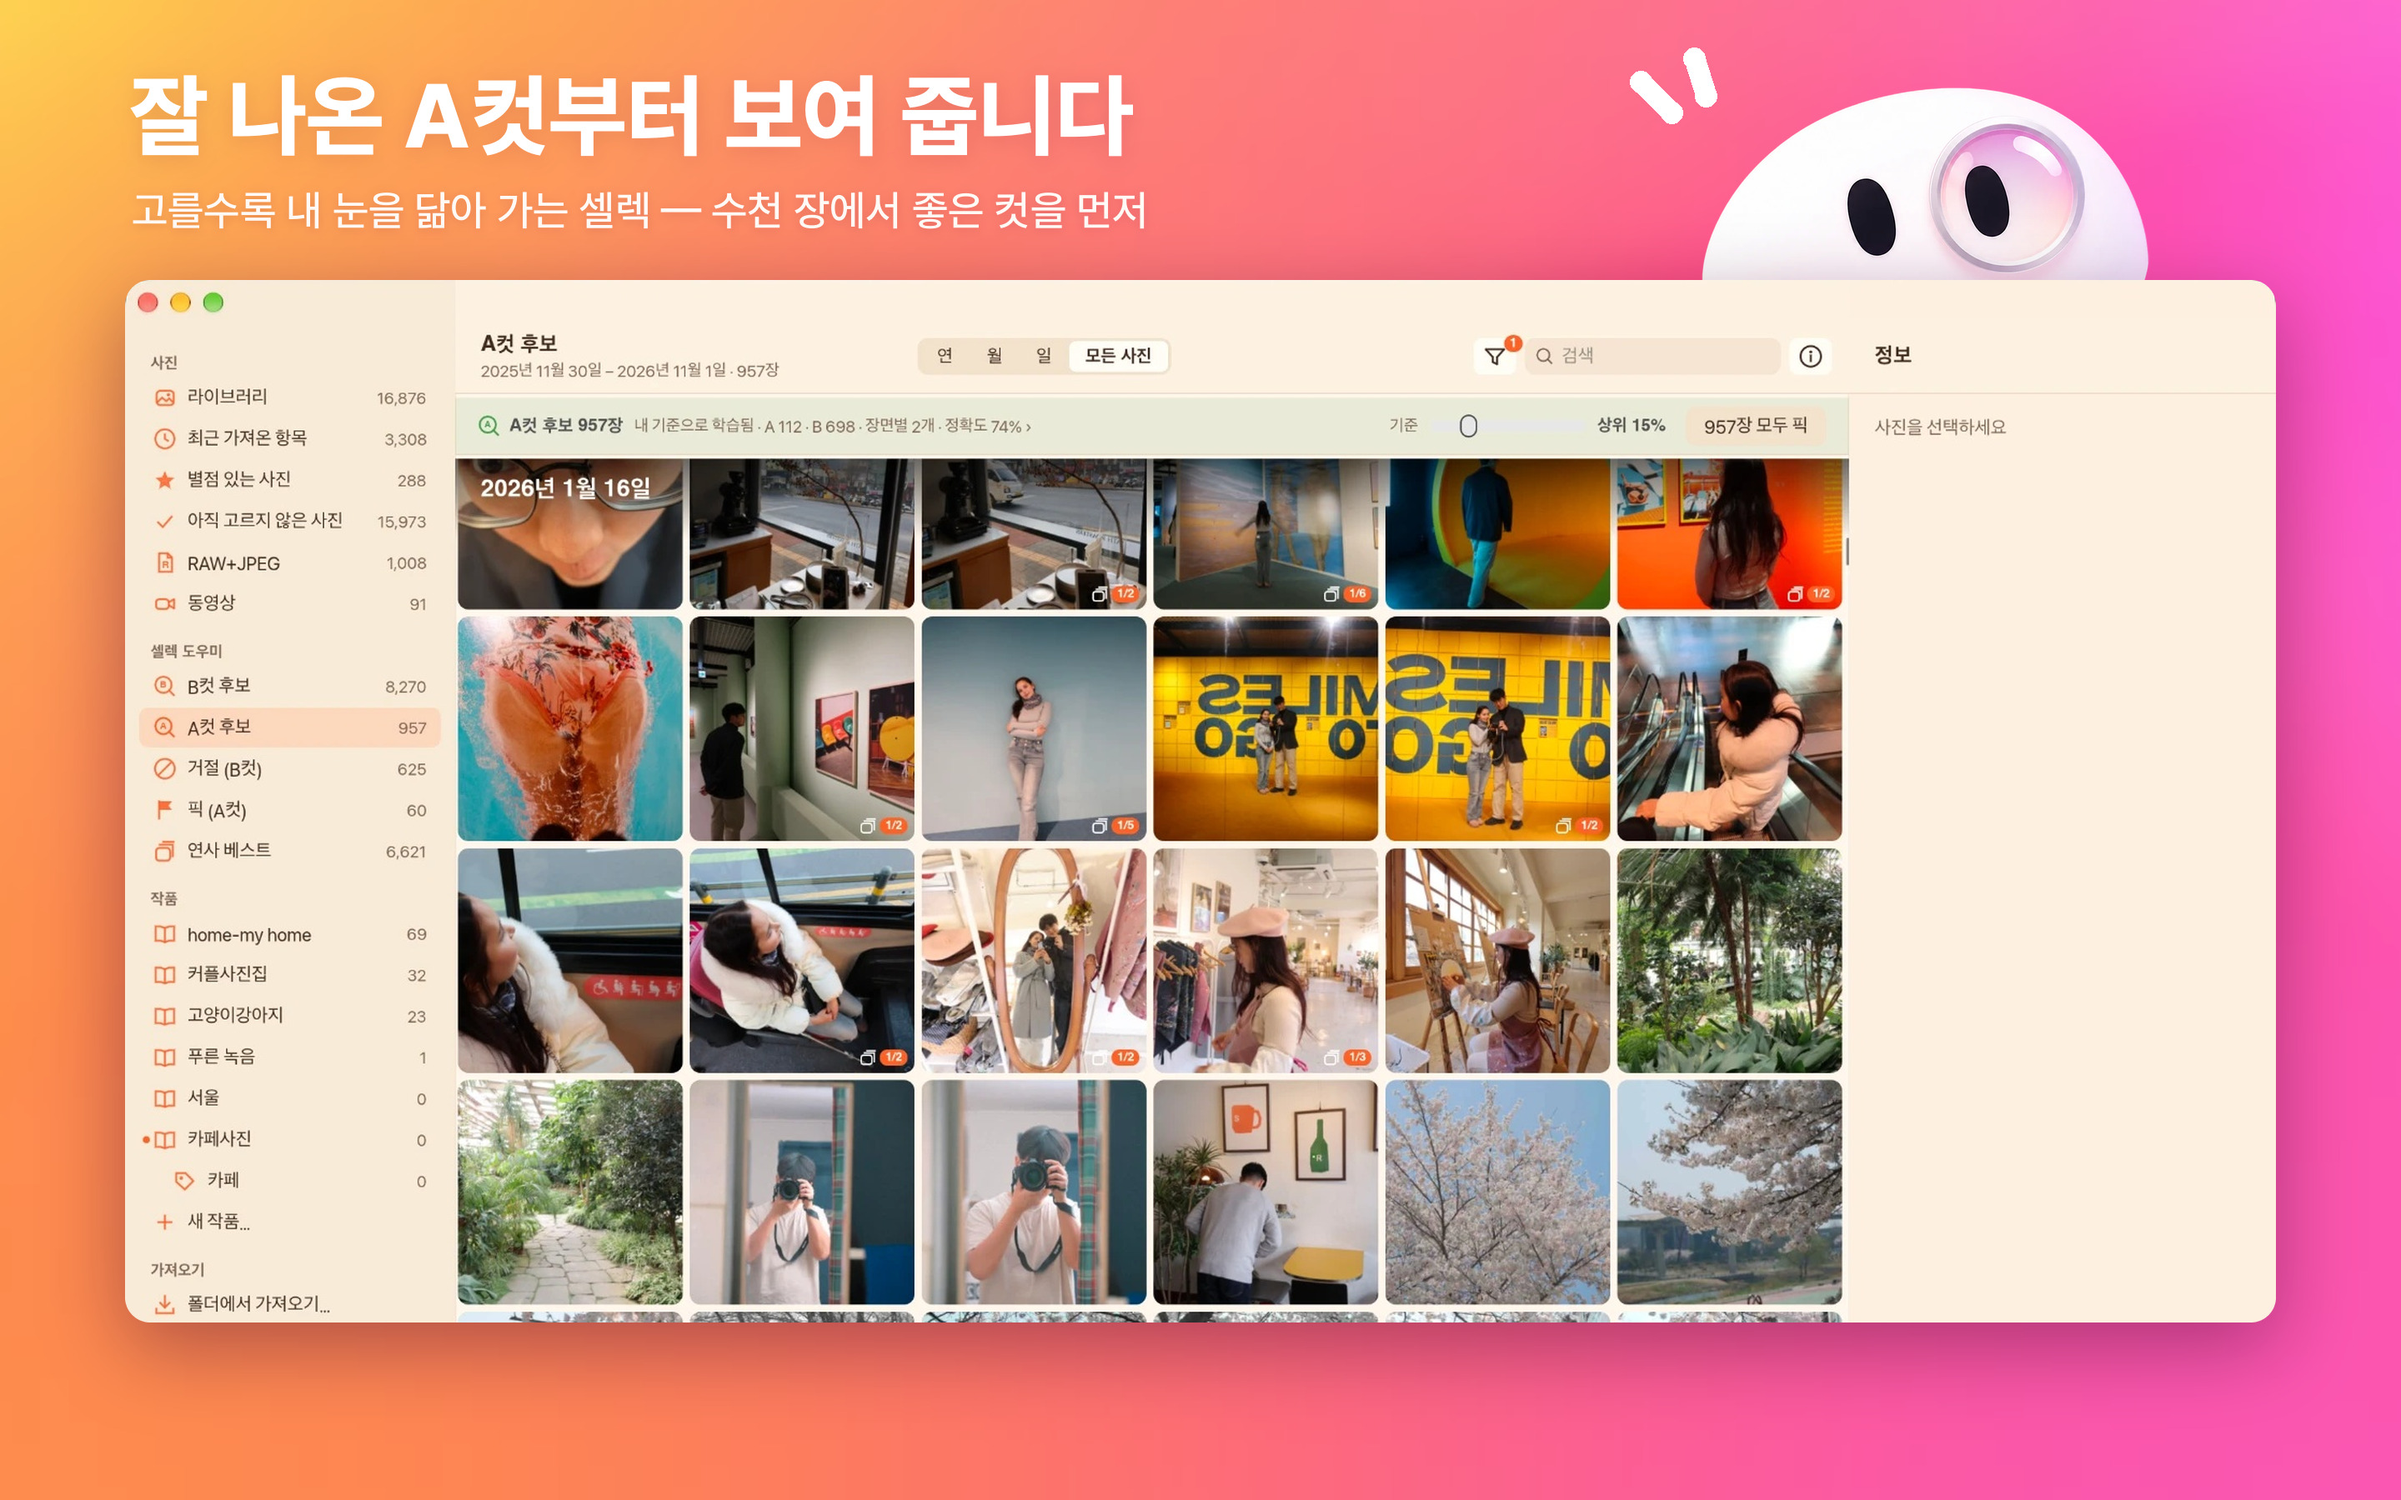
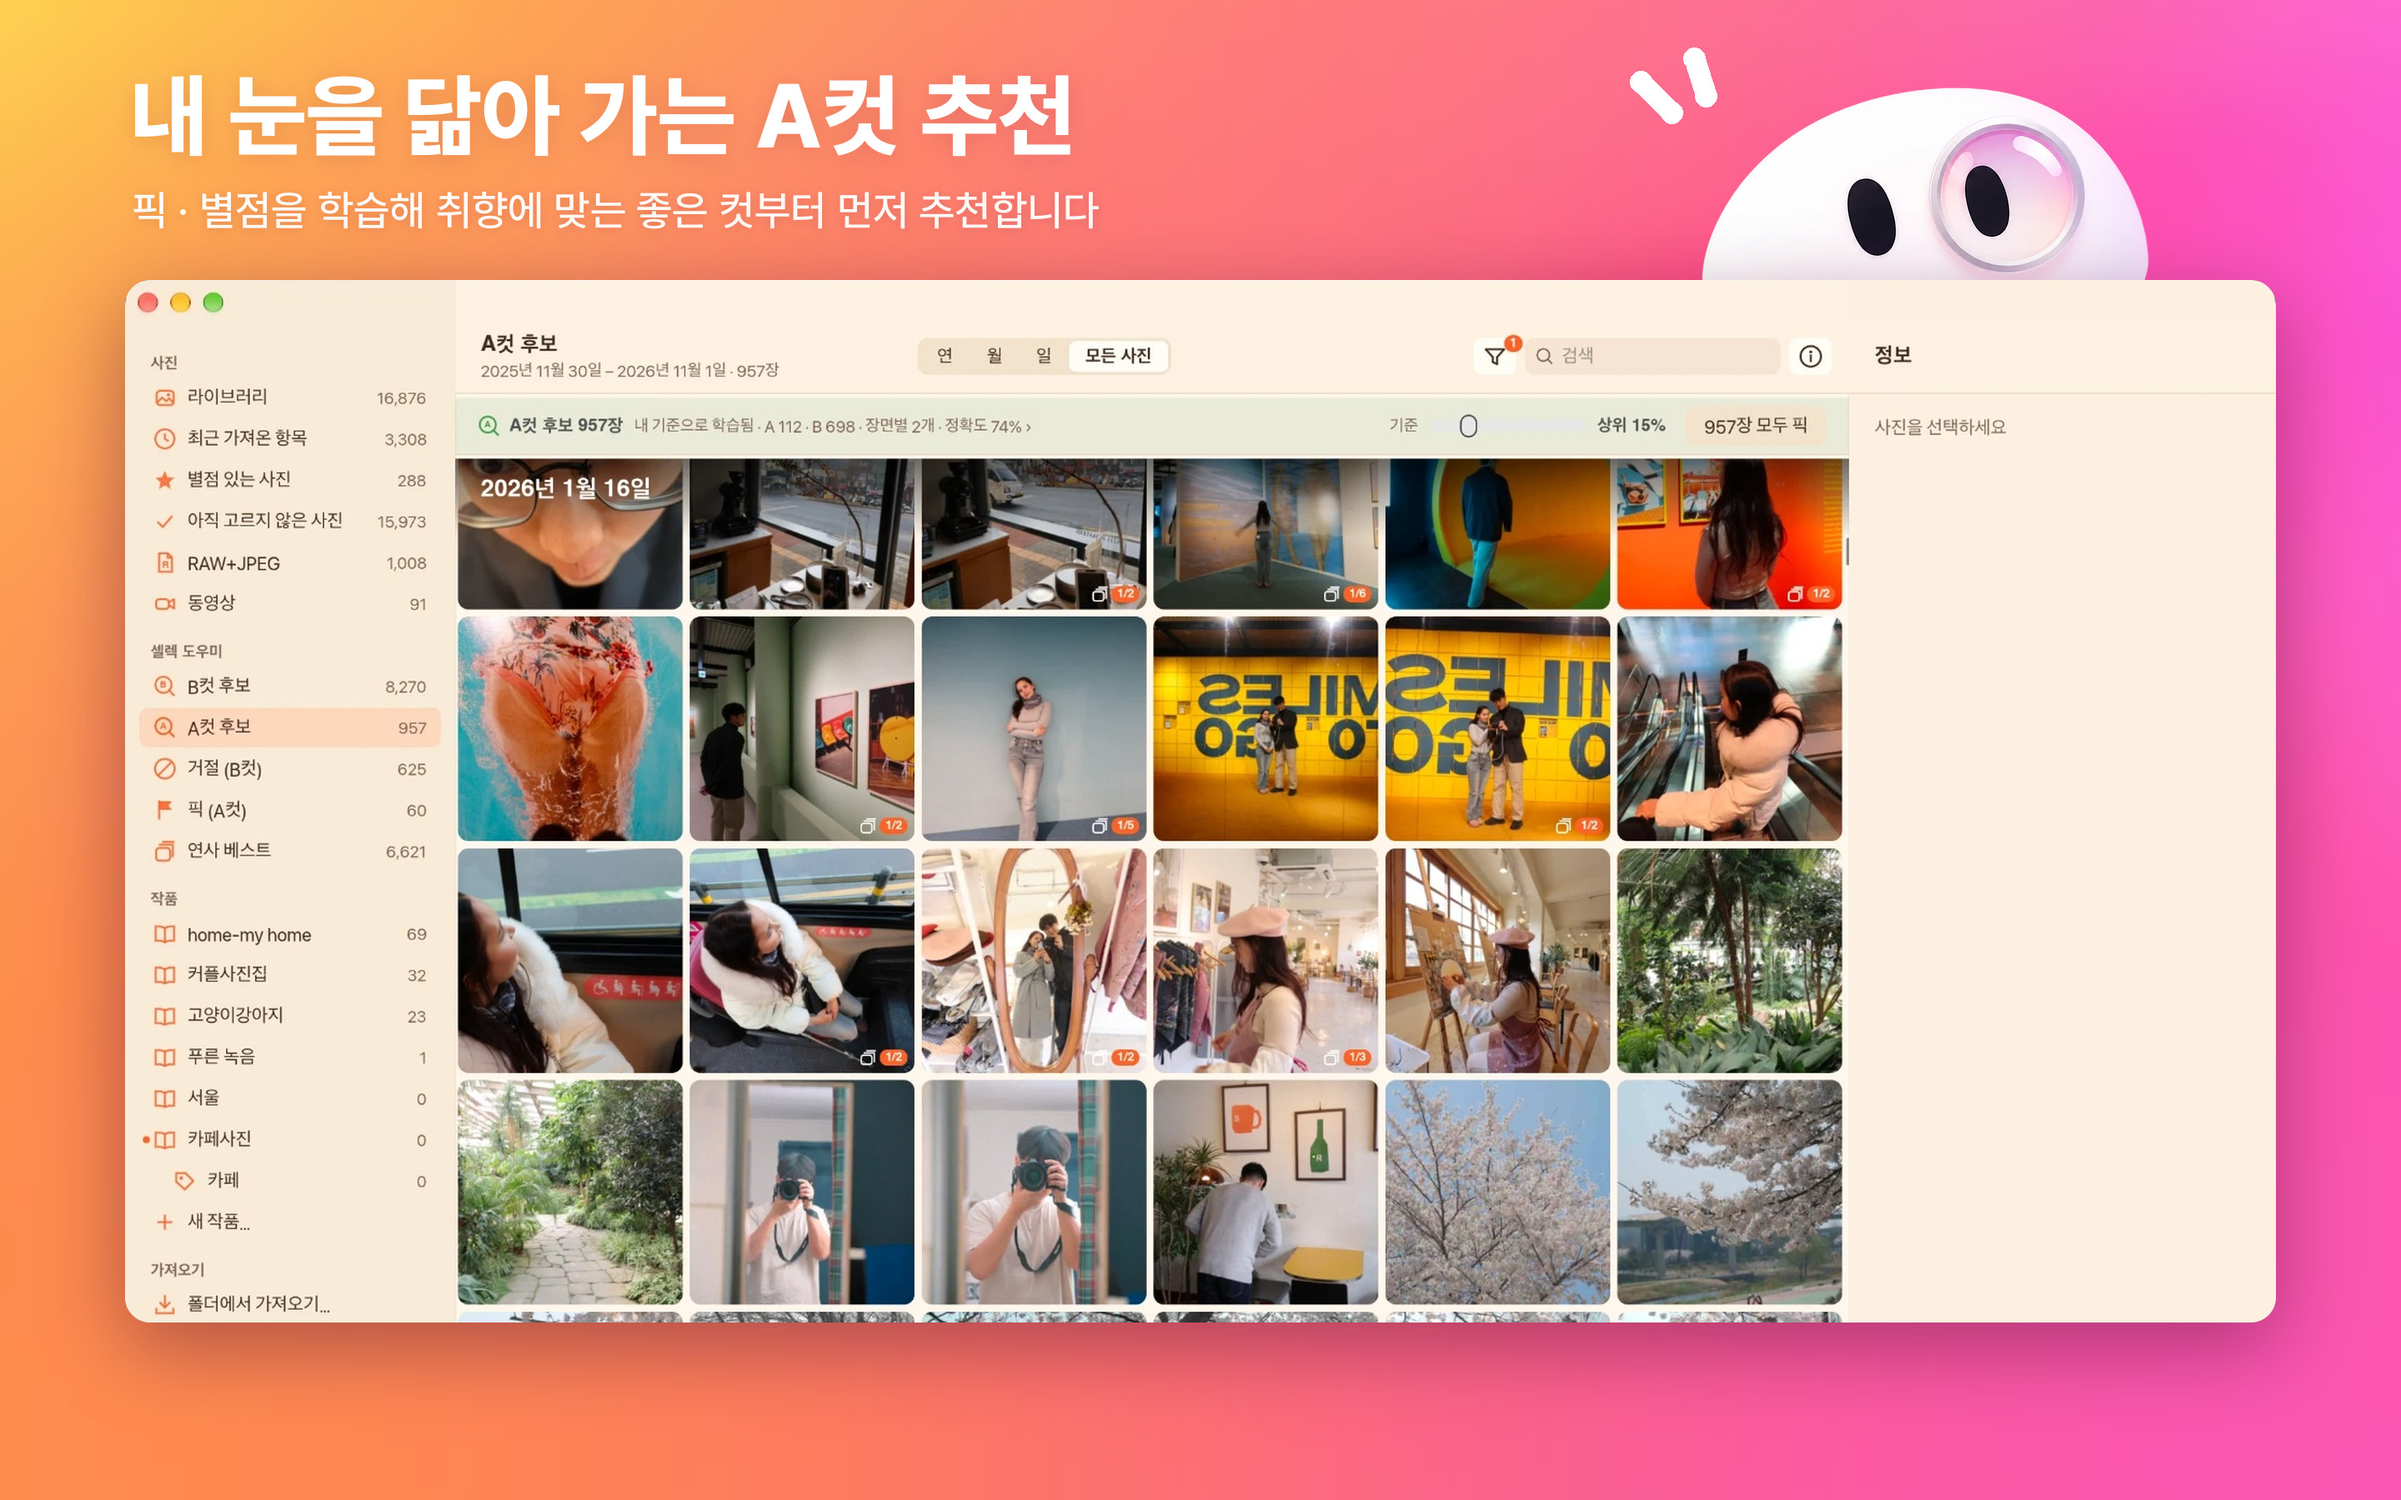
Mac App Store: 견본 스크린샷을 실제 사진 · 0.7.3 화면 8장으로 교체 (#28)
* CI: allow publishing a release from a manual run (release_tag input)

Tags cannot always be pushed (e.g. from restricted environments). A manual
'Run workflow' with release_tag (and optional release_target) now builds and
publishes the release, letting the release action create the tag through the API.

Claude-Session: https://claude.ai/code/session_0149H7TWdVJkieWBBph4w9p3

* CI: publish the release automatically when a new version lands on main

A 'plan' job decides whether a run publishes a release: on a v* tag push, on a manual
run with release_tag, or on a push to main when docs/releases/v<Cargo version>.md
exists and that tag does not exist yet. The release action then creates the tag
through the API, so no separate tag push is needed.

Claude-Session: https://claude.ai/code/session_0149H7TWdVJkieWBBph4w9p3

* Add the culling assistant: automatic B-cut detection that learns per scene

Finds likely B-cuts without any separate labelling and learns from the
user's normal culling decisions.

Analysis (once per photo, background, 1600 px embedded preview):
- focus: tiled Laplacian variance (peak + global), on a level-normalised
  image so dark night shots are not mistaken for blurred ones
- camera shake: structure-tensor anisotropy that must agree across tiles,
  ignored when the whole frame is defocused
- exposure clipping / brightness, dHash for burst grouping
- faces + 5 landmarks (YuNet) for face focus and an eye-openness estimate
[…]

Changed region(s): [[0.0312, 0.0311, 0.4688, 0.1556]]

diff --git a/scripts/make-store-images.py b/scripts/make-store-images.py
@@ -29,13 +29,14 @@ FONTS = f"{ROOT}/site/node_modules/pretendard/dist/public/static"
 
 # name (raw/<name>.jpg), headline, line under it
 SHOTS = [
-    ("real-1-acut", "잘 나온 A컷부터 보여 줍니다", "고를수록 내 눈을 닮아 가는 셀렉 — 수천 장에서 좋은 컷을 먼저"),
-    ("real-2-viewer", "왜 B컷인지, 이유까지", "흔들림 · 초점 · 눈 감음 · 노출을 사진마다 살펴 근거를 보여 줍니다"),
-    ("1-library", "카드에서 서랍까지, 한 번에", "꽂으면 날짜별로 옮겨 정리하고, RAW 와 JPEG 은 한 장으로 묶습니다"),
-    ("2-bcut", "B컷은 먼저 걸러 둡니다", "흔들리고 핀 나간 컷을 모아 한 번에 거절 — 결정은 언제나 사진가가"),
-    ("3-acut", "연사에서는 베스트 한 장만", "가장 잘 나온 사진을 앞에 모아 두는 A컷 후보"),
-    ("4-works", "작품 · 테마로 모아 편집으로", "고른 사진을 작품 폴더에 모아 Lightroom 에서 바로 시작하세요"),
-    ("5-viewer", "별점은 키 하나로", "1–5 별점 · P 픽 · X 거절 — 크게 보면서 손은 키보드에"),
+    ("real-1-acut", "내 눈을 닮아 가는 A컷 추천", "픽 · 별점을 학습해 취향에 맞는 좋은 컷부터 먼저 추천합니다"),
+    ("real-3-focus", "왜 B컷인지, 근거를 한눈에", "초점 · 흔들림 · 수직선 · 연사 순위까지 기계적으로 짚어 줍니다"),
+    ("real-4-portrait", "인물 · 구도 · 시선까지 살핍니다", "얼굴 초점과 헤드룸 · 시선 앞 공간 · 수직선까지 놓치지 않습니다"),
+    ("real-5-rated", "별점 매기고 사진집으로 바로", "별점을 매긴 사진을 작품과 테마별로 골라 사진집에 모읍니다"),
+    ("real-8-gather", "한 폴더에 모아 라이트룸으로", "사진집의 파일을 한 폴더로 옮기고 별점 · 테마 XMP 도 함께 넘깁니다"),
+    ("real-6-crop", "자동 수평 · 구도 크롭까지", "수평 · 수직 구도 모델이 기울기를 맞추고 3분할로 알맞게 잘라 줍니다"),
+    ("real-7-scene", "장면마다 다른 기준으로, 구도까지", "동물 · 인물 · 정물 등 장면을 알아보고 기울기와 3분할 구도를 살핍니다"),
+    ("real-2-viewer", "노출 과다 · 노이즈도 바로 걸러 냅니다", "흔들리고 날아간 B컷을 먼저 모아 두고, 결정은 언제나 사진가가 합니다"),
 ]
 
 if not os.path.exists(f"{FONTS}/Pretendard-Bold.otf"):

diff --git a/docs/DEVLOG.md b/docs/DEVLOG.md
@@ -85,7 +85,7 @@ LOUPE(0.5.0 까지의 이름: Photo Organize)를 만들면서 받은 **요청과
 
 ### 개발 쪽
 
-- [ ] **스토어 스크린샷을 실제 사진 · 지금 버전으로 다시 찍기.** 7장 중 5장이 견본 그림이고, 화면은 0.5 ~ 0.6 때의 것이라 구도 표시 · 크롭이 없습니다. 창 그림을 `docs/app-store/screenshots/raw/` 에 넣고 `scripts/make-store-images.py` 를 돌리면 됩니다. Play 스크린샷(`docs/play-store/graphics/phone-*` 등)도 예전 그대로입니다.
+- [ ] **Google Play 스토어 스크린샷을 실제 사진 · 지금 버전으로 다시 찍기.** Play 스크린샷(`docs/play-store/graphics/phone-*` 등)이 예전 견본 그대로입니다. (Mac App Store 스크린샷 8장은 11-18 에 실제 사진 · 0.7.3 화면으로 교체 완료)
 - [ ] **테마를 새 아이콘에 맞출지 정하기.** 크림 · 코코아 테마는 첫 아이콘에서 뽑은 색 그대로입니다 (사용자 결정 필요).
 - [ ] **실제 촬영본으로 문턱값 맞추기.** 구도(3분할 · 기울기 · 헤드룸)와 눈 감음은 공개 샘플 사진과 합성 테스트로만 확인했습니다. 기준 데이터셋 v1 이 필요합니다 ([ROADMAP](cull-engine/ROADMAP.md) M1).
 - [ ] **크롭을 XMP 로 내보내기.** 라이트룸에서 크롭이 이어지게 합니다 (0.7.1 의 남은 점).
@@ -453,4 +453,25 @@ LOUPE(0.5.0 까지의 이름: Photo Organize)를 만들면서 받은 **요청과
 - **남은 점**
   - 머지 뒤 사용자가 Actions → **app-store** → *Run workflow* 를 실행해 새 빌드(8)를 올리고, App Store Connect 의 0.7.3 버전에서 빌드 8 로 바꿔 다시 심사에 제출해야 합니다.
 
+### Mac App Store 스크린샷 실제 사진 · 0.7.3 화면으로 교체 (11-18)
 
+- **요청**: Mac 에서 직접 찍은 최신 LOUPE 화면 6장(학습 A컷/구도 분석, 별점→사진집 보내기, 사진집 폴더 모으기, 자동 수평·구도 크롭)을 올리며 앱의 핵심 흐름("기계적 + 내가 많이 픽한 스타일 학습 기반 A/B컷 추천", "별점 → 사진집 → 폴더째 Lightroom 이동(XMP 포함)", "수평·수직 구도 모델 기반 자동 크롭")에 맞춰 시안의 문구·순서를 수정하고 깃허브 예시 이미지를 교체해 달라고 요청.
+- **반영**
+  - 기존 견본 그림 5장(`1-library` ~ `5-viewer`)을 `docs/app-store/screenshots/` 와 `raw/` 에서 삭제하고, 8장 모두 실제 사진 · 0.7.3 화면으로 구성했습니다(`scripts/make-store-images.py`, `docs/app-store/screenshots/`).
+    1. `real-1-acut.jpg` — 내 눈을 닮아 가는 A컷 추천 (기존 실제 사진 유지)
+    2. `real-3-focus.jpg` — 왜 B컷인지, 근거를 한눈에 (초점·흔들림·수직선·연사 순위)
+    3. `real-4-portrait.jpg` — 인물 · 구도 · 시선까지 살핍니다 (얼굴 초점·헤드룸·시선 앞 공간·수직선)
+    4. `real-5-rated.jpg` — 별점 매기고 사진집으로 바로 (별점 있는 사진을 작품·테마별로 모으기)
+    5. `real-8-gather.jpg` — 한 폴더에 모아 라이트룸으로 (작품 폴더 모으기 모달 · XMP 전달)
+    6. `real-6-crop.jpg` — 자동 수평 · 구도 크롭까지 (모델 기반 자동 수평·3분할 구도 크롭)
+    7. `real-7-scene.jpg` — 장면마다 다른 기준으로, 구도까지 (장면 자동 인식·기울기·3분할)
+    8. `real-2-viewer.jpg` — 노출 과다 · 노이즈도 바로 걸러 냅니다 (기존 실제 사진 유지)
+  - `docs/app-store/listing.md` 의 스크린샷 목록과 한국어·영어 설명에 구도·자동 수평 크롭 설명을 반영했습니다.
+- **결정과 이유**
+  - 올려주신 화면들의 상단 macOS 메뉴바를 자르고, 사이드바 맨 아래 로컬 라이브러리 경로 영역은 사이드바 배경색으로 지워 하단 필름스트립을 살리면서 개인 정보를 제거했습니다. `real-8-gather.jpg` 모달 안의 경로도 일반 예시 경로(`/Volumes/외장하드/LOUPE/작품/home-my home`)로 대체했습니다.
+  - 1번(취향 학습)은 기존 `real-1-acut.jpg`("내 기준으로 학습됨 · 정확도 74%")를 유지하고, 사용자가 강조한 "별점 → 사진집 → 폴더째 Lightroom 이동 → 자동 수평·구도 크롭" 흐름대로 4→5→6번 순서를 맞췄습니다.
+- **확인**
+  - `python3 scripts/make-store-images.py` 로 8장(2880×1800)을 생성해 글자·캐릭터·창 영역·개인 경로 제거 상태를 육안 확인했습니다 (`docs/play-store/graphics/feature-graphic.png` 는 변경 없음).
+- **남은 점**
+  - 채팅 업로드 이미지가 폭 `1024px` 로 축소된 상태라 `2880×1800` 캔버스에 확대되었습니다. 더 선명한 원본이 필요하면 Mac 원본 해상도 캡처를 `.zip` 으로 받아 `raw/` 만 바꿔 다시 생성할 수 있습니다.
+  - 스토어 등록 전 인물 사진 초상권 확인이 필요합니다.
